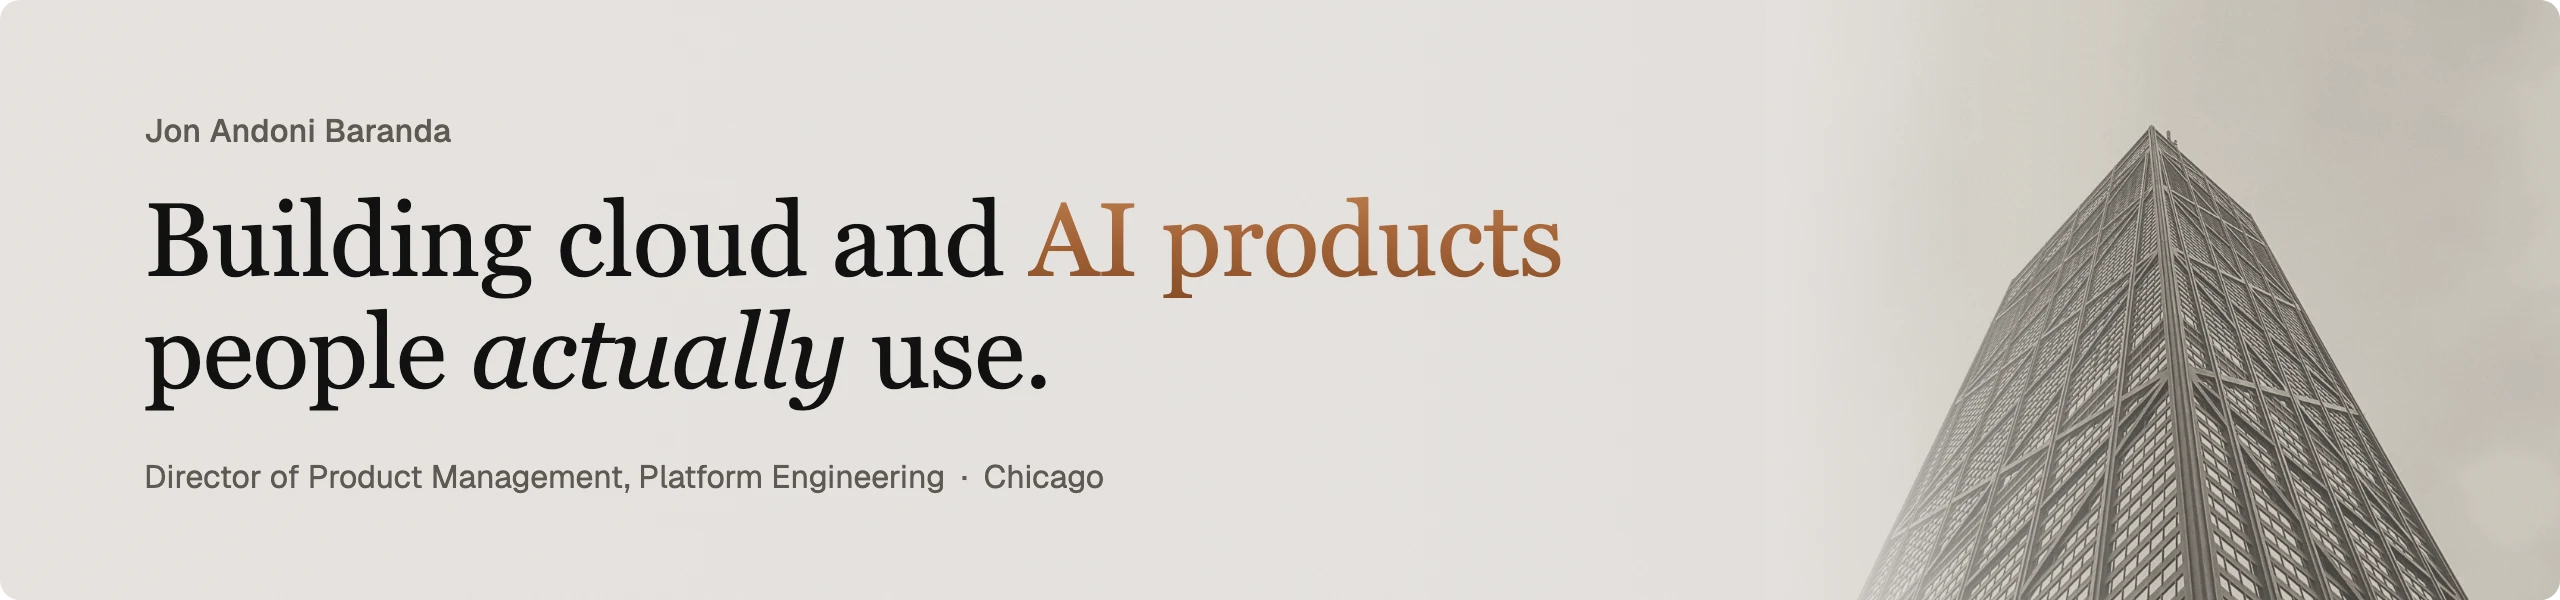
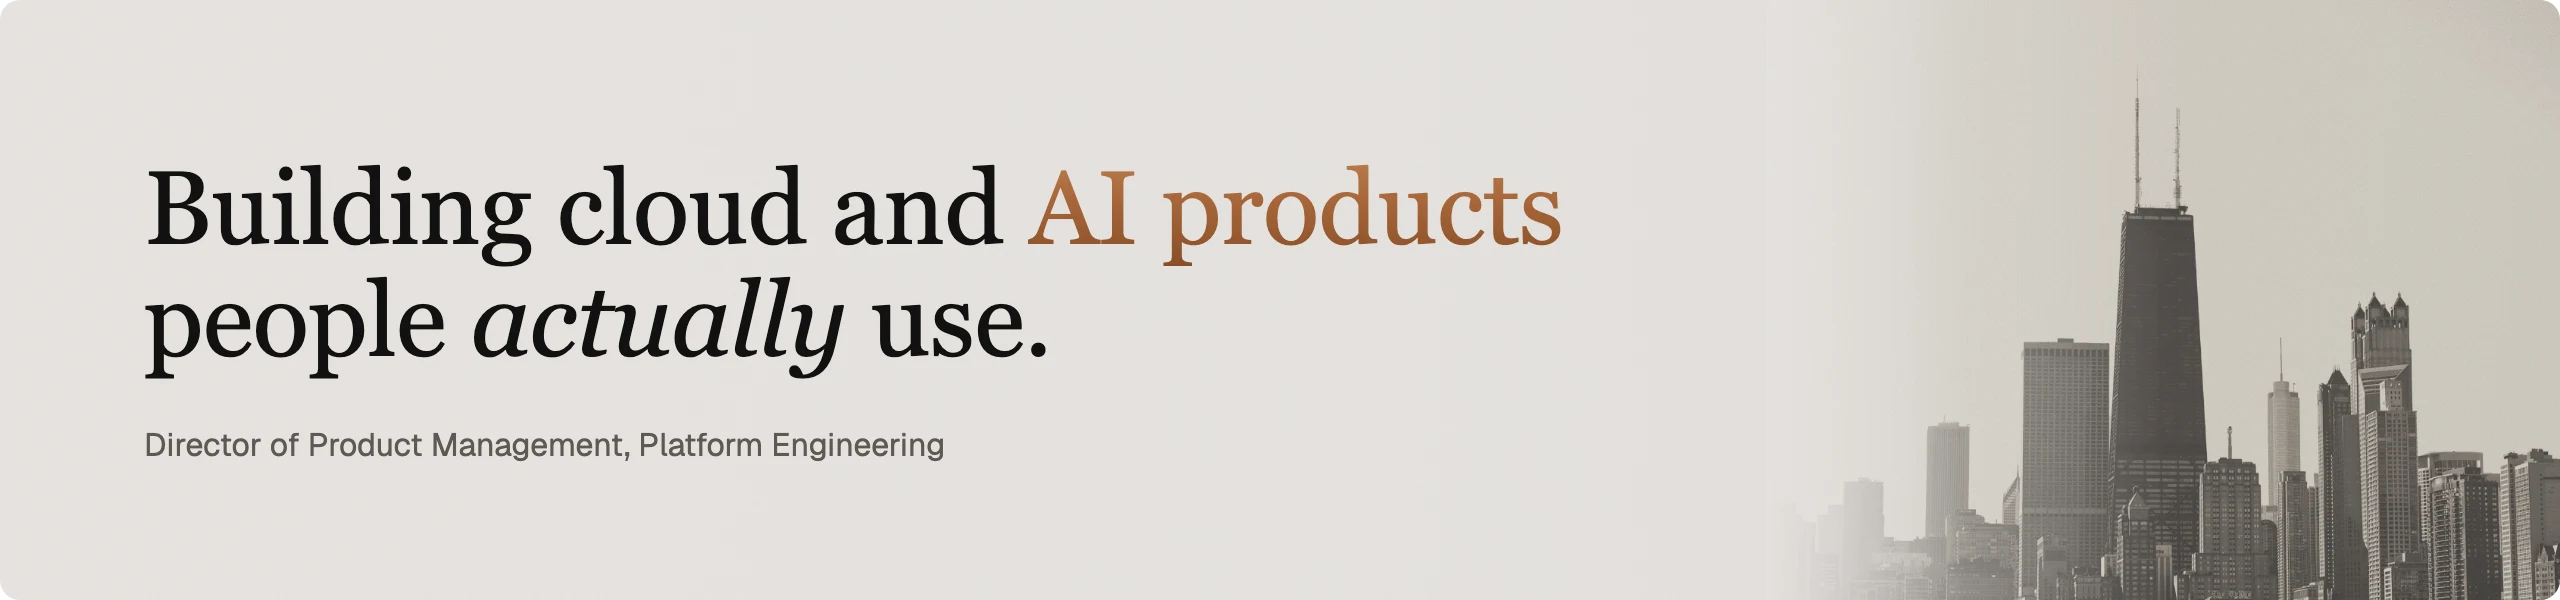
Activity and tools first; project and publication cards
- Header without name or city, Chicago skyline instead of the tower.
- New order: intro, activity, tools, selected work, publications.
- Projects and publications as SVG cards generated by scripts/cards.py,
  including the two Google Scholar papers and the Microsoft Tech
  Community articles.

diff --git a/scripts/cards.py b/scripts/cards.py
@@ -1,0 +1,123 @@
+#!/usr/bin/env python3
+"""Render the project and publication cards on the profile as SVG.
+
+GitHub strips CSS from READMEs, so a "card component" has to be an image.
+Content lives in CARDS below; run `python scripts/cards.py` after editing it.
+"""
+
+from __future__ import annotations
+
+import html
+from pathlib import Path
+
+OUT = Path(__file__).resolve().parent.parent / "assets" / "cards"
+
+PAPER, BORDER, INK, BODY, MUTED, COPPER = "#f4f1ec", "#d8d2c8", "#111111", "#3a3530", "#6b655e", "#8a4f28"
+W, H, PAD = 440, 200, 26
+SERIF = "Georgia, 'Times New Roman', serif"
+SANS = "-apple-system, 'Segoe UI', Helvetica, Arial, sans-serif"
+
+CARDS = [
+    # projects
+    dict(slug="vigia", kicker="Python · ONNX · FastAPI", title="VIGÍA",
+         body="Disaster detection for the cameras cities already have: published detectors behind one validator that decides which alarms reach a person.",
+         note="First prize, IIE Young Engineers 2025", pill="Looking for maintainers"),
+    dict(slug="explorar-espana", kicker="JavaScript · Google 3D Maps · AWS", title="Explorar España",
+         body="A 3D map of 38 museums, shipyards, universities and technology centres in Spain's engineering network, built for the Instituto de la Ingeniería de España.",
+         note="First IIE–AWS prize, 2025", pill="Looking for a new owner"),
+    dict(slug="linkedin-daily-agent", kicker="Python · n8n · Claude", title="LinkedIn daily agent",
+         body="Finds tech news, drafts a post in my voice with the article's real numbers, renders the image, and waits in Telegram until I tap Publish.",
+         note="Official LinkedIn API only", pill="MIT"),
+    dict(slug="home-lab", kicker="Home Assistant · Proxmox · Python", title="Home lab",
+         body="One mini PC running Home Assistant and a dozen services. A local voice assistant runs on the Intel iGPU, with Echo Shows reflashed as voice satellites.",
+         note="Speech-to-text in 0.27 s, fully local", pill="Private"),
+    # publications
+    dict(slug="pub-ai-rca", kicker="Microsoft Tech Community · Azure Compute Blog",
+         title="AI-Powered Downtime Investigation for Azure VMs: Automating Root Cause Analysis",
+         body="How we use AI to investigate Azure VM downtime and draft the root cause automatically.",
+         note="April 2026 · with five co-authors", pill="Article"),
+    dict(slug="pub-vm-recovery", kicker="Microsoft Tech Community · Azure Compute Blog",
+         title="Azure Automated Virtual Machine Recovery: Minimizing Downtime",
+         body="How Azure spots virtual machines in trouble and recovers them automatically to cut downtime.",
+         note="February 2026 · with eight co-authors", pill="Article"),
+    dict(slug="pub-private-cloud", kicker="Research · University of the Basque Country",
+         title="Design and build of a custom private cloud",
+         body="Choosing how to build a private cloud, then designing and deploying it on OpenStack: the architecture, the trade-offs and the result.",
+         note="2025 · Google Scholar", pill="Research"),
+    dict(slug="pub-spoofing", kicker="Research · in Spanish",
+         title="Integración de bases de datos para la detección de ataques mediante Spoofing",
+         body="Integrating databases to detect spoofing attacks.",
+         note="2020 · Google Scholar", pill="Research"),
+]
+
+
+def wrap(text: str, max_px: float, char_px: float) -> list[str]:
+    """Greedy word wrap using an average character width."""
+    lines, line = [], ""
+    for word in text.split():
+        trial = f"{line} {word}".strip()
+        if len(trial) * char_px <= max_px or not line:
+            line = trial
+        else:
+            lines.append(line)
+            line = word
+    if line:
+        lines.append(line)
+    return lines
+
+
+def render(card: dict) -> str:
+    inner = W - 2 * PAD
+    esc = html.escape
+    # Title: one line at 22px if it fits, otherwise two lines at 17px.
+    if len(card["title"]) * 10.4 <= inner:
+        t_size, t_lines = 22, [card["title"]]
+    else:
+        t_size = 17
+        t_lines = wrap(card["title"], inner, 8.3)[:2]
+    y = 44
+    parts = [f'<text x="{PAD}" y="{y}" class="k">{esc(card["kicker"])}</text>']
+    y += 14 + t_size
+    for line in t_lines:
+        parts.append(f'<text x="{PAD}" y="{y}" class="t" font-size="{t_size}">{esc(line)}</text>')
+        y += t_size + 5
+    y += 6
+    max_body = 3 if len(t_lines) == 1 else 2
+    body = wrap(card["body"], inner, 6.55)
+    if len(body) > max_body:
+        body = body[:max_body]
+        body[-1] = body[-1].rstrip(".,") + "…"
+    for line in body:
+        parts.append(f'<text x="{PAD}" y="{y}" class="b">{esc(line)}</text>')
+        y += 19
+    # Footer: copper note on the left, outlined pill on the right.
+    fy = H - 24
+    parts.append(f'<text x="{PAD}" y="{fy}" class="n">{esc(card["note"])}</text>')
+    pill = card["pill"]
+    pw = len(pill) * 6.4 + 22
+    px = W - PAD - pw
+    parts.append(f'<rect x="{px:.1f}" y="{fy - 15}" width="{pw:.1f}" height="22" rx="11" fill="none" stroke="{COPPER}" stroke-width="1"/>')
+    parts.append(f'<text x="{px + pw / 2:.1f}" y="{fy}" class="p" text-anchor="middle">{esc(pill)}</text>')
+    return f"""<svg xmlns="http://www.w3.org/2000/svg" width="{W}" height="{H}" viewBox="0 0 {W} {H}" role="img" aria-label="{esc(card['title'])}">
+<style>
+  .k {{ font: 400 12px {SANS}; fill: {MUTED}; }}
+  .t {{ font-family: {SERIF}; font-weight: 400; fill: {INK}; }}
+  .b {{ font: 400 13.5px {SANS}; fill: {BODY}; }}
+  .n {{ font: 400 12.5px {SANS}; fill: {COPPER}; }}
+  .p {{ font: 500 11.5px {SANS}; fill: {COPPER}; }}
+</style>
+<rect x="0.5" y="0.5" width="{W - 1}" height="{H - 1}" rx="8" fill="{PAPER}" stroke="{BORDER}"/>
+{chr(10).join(parts)}
+</svg>
+"""
+
+
+def main() -> None:
+    OUT.mkdir(parents=True, exist_ok=True)
+    for card in CARDS:
+        (OUT / f"{card['slug']}.svg").write_text(render(card), encoding="utf-8")
+    print(f"wrote {len(CARDS)} cards to {OUT}")
+
+
+if __name__ == "__main__":
+    main()

diff --git a/README.md b/README.md
@@ -1,4 +1,4 @@
-<img src="assets/header.webp" width="100%" alt="Jon Andoni Baranda. Building cloud and AI products people actually use. Director of Product Management, Platform Engineering, Chicago.">
+<img src="assets/header.webp" width="100%" alt="Building cloud and AI products people actually use. Director of Product Management, Platform Engineering.">
 
 I lead product for platform engineering: the cloud infrastructure and platform
 capabilities other teams build on. I got here the long way. I started as an
@@ -11,33 +11,6 @@ disaster-detection system for city cameras, a 3D map that gets teenagers
 interested in engineering, and more home automation than one apartment
 needs. I'm from Bilbao, live in Chicago, and write about cloud and AI on
 LinkedIn in English and Spanish.
-
-### Selected work
-
-<table>
-  <tr>
-    <td width="24%" valign="top"><a href="https://github.com/jandoni/vigia"><b>VIGÍA</b></a><br><sub>Python · ONNX · FastAPI</sub></td>
-    <td valign="top">Disaster detection for the cameras cities already have. Published detectors for fire, flood and people in water sit behind one validator that decides which alarms are worth a human's attention. First prize, <i>Young Engineers for a Better World</i>, Instituto de la Ingeniería de España, 2025. <b>Looking for maintainers.</b></td>
-  </tr>
-  <tr>
-    <td valign="top"><a href="https://github.com/jandoni/ingenet3d"><b>Explorar España</b></a><br><sub>JavaScript · Google 3D Maps · AWS</sub></td>
-    <td valign="top">An interactive 3D map of 38 museums, shipyards, universities and technology centres in Spain's engineering network, built for the IIE. First IIE–AWS prize, 2025. <b>Looking for a new owner.</b></td>
-  </tr>
-  <tr>
-    <td valign="top"><a href="https://github.com/jandoni/linkedin-daily-agent"><b>LinkedIn daily agent</b></a><br><sub>Python · n8n · Claude</sub></td>
-    <td valign="top">Finds tech and AI news, drafts a post in my voice with the article's real numbers, renders the image, and waits in Telegram until I tap Publish. Both workflows are generated from Python, and it posts only through LinkedIn's official API.</td>
-  </tr>
-  <tr>
-    <td valign="top"><b>Home lab</b><br><sub>Home Assistant · Proxmox · Python</sub></td>
-    <td valign="top">One mini PC running Home Assistant and a dozen services. A local voice assistant runs on the Intel iGPU (Parakeet speech-to-text, a 3B local model), with Echo Shows reflashed as voice satellites. The config is private because it maps my home network.</td>
-  </tr>
-</table>
-
-### Writing
-
-- [AI-Powered Downtime Investigation for Azure VMs: Automating Root Cause Analysis](https://techcommunity.microsoft.com/t5/azure-compute-blog/ai-powered-downtime-investigation-for-azure-vms-automating-root/ba-p/4513473) · Microsoft Tech Community
-- [Azure Automated Virtual Machine Recovery: Minimizing Downtime](https://techcommunity.microsoft.com/t5/azure-compute-blog/azure-automated-virtual-machine-recovery-minimizing-downtime/ba-p/4483166) · Microsoft Tech Community
-- Research on building an OpenStack private cloud, from my engineering studies · [Google Scholar](https://scholar.google.com/citations?user=bZPQs6kAAAAJ)
 
 ### Activity
 
@@ -66,6 +39,20 @@ LinkedIn in English and Spanish.
 
 Most of my cloud work has been on Azure and AWS, with migrations across Google
 Cloud too. Certified PMP, AWS Cloud Practitioner and Azure Fundamentals.
+
+### Selected work
+
+<p>
+<a href="https://github.com/jandoni/vigia"><img src="assets/cards/vigia.svg" width="49%" alt="VIGÍA: disaster detection for the cameras cities already have. First prize, IIE Young Engineers 2025. Looking for maintainers."></a><a href="https://github.com/jandoni/ingenet3d"><img src="assets/cards/explorar-espana.svg" width="49%" alt="Explorar España: a 3D map of Spain's engineering network for the IIE. First IIE–AWS prize, 2025. Looking for a new owner."></a>
+<a href="https://github.com/jandoni/linkedin-daily-agent"><img src="assets/cards/linkedin-daily-agent.svg" width="49%" alt="LinkedIn daily agent: drafts posts from tech news and waits in Telegram for approval. MIT."></a><img src="assets/cards/home-lab.svg" width="49%" alt="Home lab: Home Assistant and a dozen services on one mini PC, with a local voice assistant. Private.">
+</p>
+
+### Publications
+
+<p>
+<a href="https://techcommunity.microsoft.com/t5/azure-compute-blog/ai-powered-downtime-investigation-for-azure-vms-automating-root/ba-p/4513473"><img src="assets/cards/pub-ai-rca.svg" width="49%" alt="AI-Powered Downtime Investigation for Azure VMs: Automating Root Cause Analysis. Microsoft Tech Community, April 2026."></a><a href="https://techcommunity.microsoft.com/t5/azure-compute-blog/azure-automated-virtual-machine-recovery-minimizing-downtime/ba-p/4483166"><img src="assets/cards/pub-vm-recovery.svg" width="49%" alt="Azure Automated Virtual Machine Recovery: Minimizing Downtime. Microsoft Tech Community, February 2026."></a>
+<a href="https://scholar.google.com/citations?view_op=view_citation&hl=en&user=bZPQs6kAAAAJ&citation_for_view=bZPQs6kAAAAJ:u-x6o8ySG0sC"><img src="assets/cards/pub-private-cloud.svg" width="49%" alt="Design and build of a custom private cloud. Research, University of the Basque Country, 2025."></a><a href="https://scholar.google.com/citations?view_op=view_citation&hl=en&user=bZPQs6kAAAAJ&citation_for_view=bZPQs6kAAAAJ:u5HHmVD_uO8C"><img src="assets/cards/pub-spoofing.svg" width="49%" alt="Integración de bases de datos para la detección de ataques mediante Spoofing. Research, 2020."></a>
+</p>
 
 ---
 
